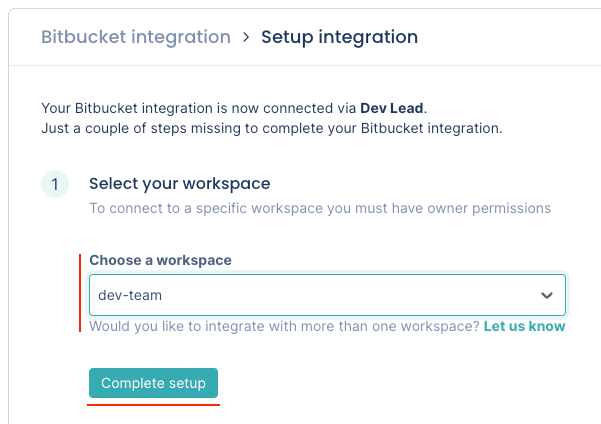
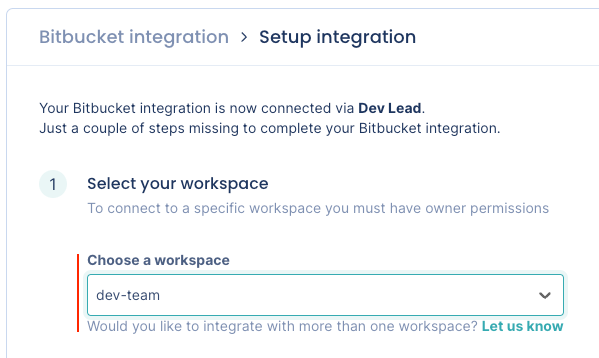
Deployed f9c574a29 to . with MkDocs 1.4.2

diff --git a/one-click-integrations/bitbucket-integration/index.html b/one-click-integrations/bitbucket-integration/index.html
@@ -6,7 +6,7 @@
       <meta charset="utf-8">
       <meta name="viewport" content="width=device-width,initial-scale=1">
       
-        <meta name="description" content="Pulse integrates with Bitbucket Cloud to receive data about changes and deployments, necessary to calculate the metrics:">
+        <meta name="description" content="Pulse integrates with Bitbucket Cloud to receive data about changes, deployments, and incidents, necessary to calculate the Accelerate metrics:">
       
       
       
@@ -448,6 +448,33 @@
 </li>
       
         <li class="md-nav__item">
+  <a href="#incident-detection-strategy" class="md-nav__link">
+    Automatic incident detection strategies
+  </a>
+  
+    <nav class="md-nav" aria-label="Automatic incident detection strategies">
+      <ul class="md-nav__list">
+        
+          <li class="md-nav__item">
+  <a href="#bb-incident-pr-revert" class="md-nav__link">
+    Use pull request reverts (based on default branch)
+  </a>
+  
+</li>
+        
+          <li class="md-nav__item">
+  <a href="#bb-incident-not-detect" class="md-nav__link">
+    Don't detect incidents via Bitbucket
+  </a>
+  
+</li>
+        
+      </ul>
+    </nav>
+  
+</li>
+      
+        <li class="md-nav__item">
   <a href="#collected-data" class="md-nav__link">
     Collected data
   </a>
@@ -606,8 +633,11 @@
 
 
 <h1 id="bitbucket-integration">Bitbucket integration<a class="headerlink" href="#bitbucket-integration" title="Permanent link">&para;</a></h1>
-<p>Pulse integrates with Bitbucket Cloud to receive data about changes and deployments, necessary to calculate the metrics:</p>
+<p>Pulse integrates with Bitbucket Cloud to receive data about changes, deployments, and incidents, necessary to calculate the Accelerate metrics:</p>
 <ul>
+<li>
+<p><a href="../../metrics/accelerate/#deployment-frequency">Deployment frequency</a></p>
+</li>
 <li>
 <p><a href="../../metrics/accelerate/#lead-time-for-changes">Lead time for changes</a>, including the following drill-down metrics:</p>
 <ul>
@@ -623,7 +653,10 @@
 </ul>
 </li>
 <li>
-<p><a href="../../metrics/accelerate/#deployment-frequency">Deployment frequency</a></p>
+<p><a href="../../metrics/accelerate/#time-to-recover">Time to recover</a></p>
+</li>
+<li>
+<p><a href="../../metrics/accelerate/#change-failure-rate">Change failure rate</a></p>
 </li>
 </ul>
 <h2 id="setting-up-the-bitbucket-integration">Setting up the Bitbucket integration<a class="headerlink" href="#setting-up-the-bitbucket-integration" title="Permanent link">&para;</a></h2>
@@ -644,15 +677,23 @@
 <p><img alt="Installing the Pulse Bitbucket App" src="../images/bitbucket-installing.png" /></p>
 </li>
 <li>
-<p>Choose the workspace that you want to connect the integration to and click <strong>Complete setup</strong> to confirm. You can only select a workspace where you have owner permissions.</p>
+<p>Confirm that Pulse successfully connected the integration to Bitbucket. If there is an error please <a href="mailto:pulsesupport@codacy.com">contact support</a>.</p>
+<p><img alt="Pulse GitHub App installed successfully" src="../images/bitbucket-installed-ok.png" /></p>
+</li>
+<li>
+<p>Choose the workspace that you want to connect the integration to. You can only select a workspace where you have owner permissions.</p>
 <p><img alt="Choosing the Bitbucket workspace" src="../images/bitbucket-workspace.png" /></p>
 </li>
 <li>
-<p>Wait until you get a confirmation that Pulse successfully connected the integration to Bitbucket.</p>
-<p><img alt="Pulse Bitbucket integration set up successfully" src="../images/bitbucket-ok.png" /></p>
+<p>Choose the strategy to detect incidents that best fits your workflows. See the <a href="#incident-detection-strategy">section below</a> for a detailed description of each option.</p>
+<p><img alt="Configuring the incident detection strategy" src="../images/bitbucket-incident-strategy.png" /></p>
+</li>
+<li>
+<p>Click <strong>Complete setup</strong>.</p>
 </li>
 </ol>
-<p>If there is an error please <a href="mailto:pulsesupport@codacy.com">contact support</a>.</p>
+<p>Your Bitbucket integration is now complete. Pulse will start loading your data for the last 90 days.</p>
+<p><img alt="Pulse Bitbucket integration set up successfully" src="../images/bitbucket-ok.png" /></p>
 <h2 id="deployment-detection-merged-pr">Automatic deployment detection using merged pull requests<a class="headerlink" href="#deployment-detection-merged-pr" title="Permanent link">&para;</a></h2>
 <div class="admonition note">
 <p class="admonition-title">Note</p>
@@ -666,6 +707,22 @@
 <li>The deployment date is the timestamp when the corresponding pull request is merged.</li>
 <li>The set of changes in a deployment is the list of commits in the corresponding pull request.</li>
 <li>Pulse associates all the Bitbucket user groups of the author of a merged pull request with the corresponding deployment, excluding the user groups with less than two members. Pulse only takes the changes to Bitbucket user groups into account on pull requests merged after those changes.</li>
+</ul>
+<h2 id="incident-detection-strategy">Automatic incident detection strategies<a class="headerlink" href="#incident-detection-strategy" title="Permanent link">&para;</a></h2>
+<p>The Pulse Bitbucket integration detects incidents automatically using <a href="#bb-incident-pr-revert">pull request reverts</a>. You can also choose <a href="#bb-incident-not-detect">not to detect incidents via Bitbucket</a>.</p>
+<h3 id="bb-incident-pr-revert">Use pull request reverts (based on default branch)<a class="headerlink" href="#bb-incident-pr-revert" title="Permanent link">&para;</a></h3>
+<ul>
+<li>Pulse bases incident detection on <a href="https://support.atlassian.com/bitbucket-cloud/docs/merge-a-pull-request/#Revert-a-merged-pull-request">pull request reverts</a>.</li>
+<li>Pulse considers an incident any pull request that <strong>targets the default branch</strong> of the repository merged from a branch whose name starts with <code>revert-pr-</code>, getting the number of the reverted pull request from the branch name, <code>revert-pr-&lt;pull request number&gt;</code>. If you change the name of the branch created by Bitbucket when you revert a pull request, Pulse may not be able to obtain the incident data correctly.</li>
+<li>The incident creation date is the timestamp when the reverted pull request was initially merged. If Pulse can't get the reverted pull request number from the branch name, the incident creation date is the timestamp of the first commit to the incident pull request.</li>
+<li>Pulse associates incidents to the system matching the repository name.</li>
+</ul>
+<h3 id="bb-incident-not-detect">Don't detect incidents via Bitbucket<a class="headerlink" href="#bb-incident-not-detect" title="Permanent link">&para;</a></h3>
+<ul>
+<li>
+<p>Pulse doesn't detect incidents automatically using Bitbucket events.</p>
+<p>Choose this option if you want to send to Pulse the information about your <strong>incidents</strong> using another Pulse integration - <a href="../pagerduty-integration/">PagerDuty one-click integration</a>, <a href="../../cli/cli/">Pulse CLI</a>, or <a href="https://ingestion.pulse.codacy.com/v1/api-docs">Ingestion API</a> - or if you don't want Pulse to track incidents data.</p>
+</li>
 </ul>
 <h2 id="collected-data">Collected data<a class="headerlink" href="#collected-data" title="Permanent link">&para;</a></h2>
 <p>The table below lists the data that the Bitbucket integration collects from your Bitbucket workspace, together with:</p>
@@ -700,10 +757,24 @@
         <p>Deployments:</p>
         <ul>
             <li><code>deploy_id</code>: unique pull request identifier</li>
+            <li><code>timestamp_created</code>: merge date of the pull request</li>
             <li><code>system</code>: repository name</li>
         </ul>
     </td>
     <td>Deployment frequency and Change failure rate on the <a href="../../metrics/accelerate/">Accelerate Overview dashboard</a></td>
+</tr>
+<tr>
+    <td>Pull requests</td>
+    <td>
+        <p>Incidents:</p>
+        <ul>
+            <li><code>incident_id</code>: pull request number</li>
+            <li><code>timestamp_created</code>: merge date of the reverted pull request</li>
+            <li><code>timestamp_resolved</code>: merge date of the pull request</li>
+            <li><code>system</code>: repository name</li>
+        </ul>
+    </td>
+    <td>Time to recover and Change failure rate on the <a href="../../metrics/accelerate/">Accelerate Overview dashboard</a></td>
 </tr>
 <tr>
     <td>Pull requests</td>

diff --git a/metrics/accelerate/index.html b/metrics/accelerate/index.html
@@ -693,8 +693,13 @@
 <p>Pulse uses the maximum value over a period of time to display aggregate times to recover.</p>
 <div class="admonition note">
 <p class="admonition-title">Note</p>
+<ul>
+<li>
 <p><strong>Pulse first calculates the performance metrics per <a href="../../cli/cli/#before-you-begin">system</a></strong>, and later aggregates the metrics by time interval when displaying them.</p>
-<p>This means that you must report both deployments and incidents associated with the correct systems for Pulse to calculate the metrics correctly. Otherwise, even if you're reporting incident events, the charts will be empty.</p>
+<p>This means that you must report <strong>deployments</strong> and <strong>incidents</strong> associated with the correct systems for Pulse to calculate the metrics correctly. Otherwise, even if you're reporting incident events, the charts will be empty.</p>
+<p>If you are reporting incidents using <a href="../../one-click-integrations/github-integration/">GitHub</a> or <a href="../../one-click-integrations/bitbucket-integration/">Bitbucket</a> integrations, Pulse automatically associates your deployments and incidents with the correct systems.</p>
+</li>
+</ul>
 </div>
 <p>Pulse determines your performance level for this metric as follows:</p>
 <table>
@@ -733,7 +738,8 @@
 <ul>
 <li>
 <p><strong>Pulse first calculates the performance metrics per <a href="../../cli/cli/#before-you-begin">system</a></strong>, and later aggregates the metrics by time interval when displaying them.</p>
-<p>This means that you must report both deployments and incidents associated with the correct systems for Pulse to calculate the metrics correctly. Otherwise, even if you're reporting incident events, the charts will be empty.</p>
+<p>This means that you must report <strong>deployments</strong> and <strong>incidents</strong> associated with the correct systems for Pulse to calculate the metrics correctly. Otherwise, even if you're reporting incident events, the charts will be empty.</p>
+<p>If you are reporting incidents using <a href="../../one-click-integrations/github-integration/">GitHub</a> or <a href="../../one-click-integrations/bitbucket-integration/">Bitbucket</a> integrations, Pulse automatically associates your deployments and incidents with the correct systems.</p>
 </li>
 <li>
 <p>Pulse considers that <strong>the deployment causing each incident is the last deployment before the incident</strong>, within the same system. The same deployment may be associated with multiple incidents.</p>

diff --git a/index.html b/index.html
@@ -624,7 +624,7 @@
 <p><strong>One-click integrations</strong></p>
 <p>Pulse currently supports the following "one-click" integrations that simplify the process of setting up your workflows to send data to Pulse:</p>
 <ul>
-<li><strong><a href="one-click-integrations/github-integration/">GitHub integration</a> or <a href="one-click-integrations/bitbucket-integration/">Bitbucket integration</a>:</strong> reports changes and deployments</li>
+<li><strong><a href="one-click-integrations/github-integration/">GitHub integration</a> or <a href="one-click-integrations/bitbucket-integration/">Bitbucket integration</a>:</strong> reports changes, deployments, and incidents</li>
 <li><strong><a href="one-click-integrations/pagerduty-integration/">PagerDuty integration</a>:</strong> reports incidents</li>
 <li><strong><a href="one-click-integrations/jira-integration/">Jira integration</a>:</strong> reports lead and cycle time</li>
 </ul>
